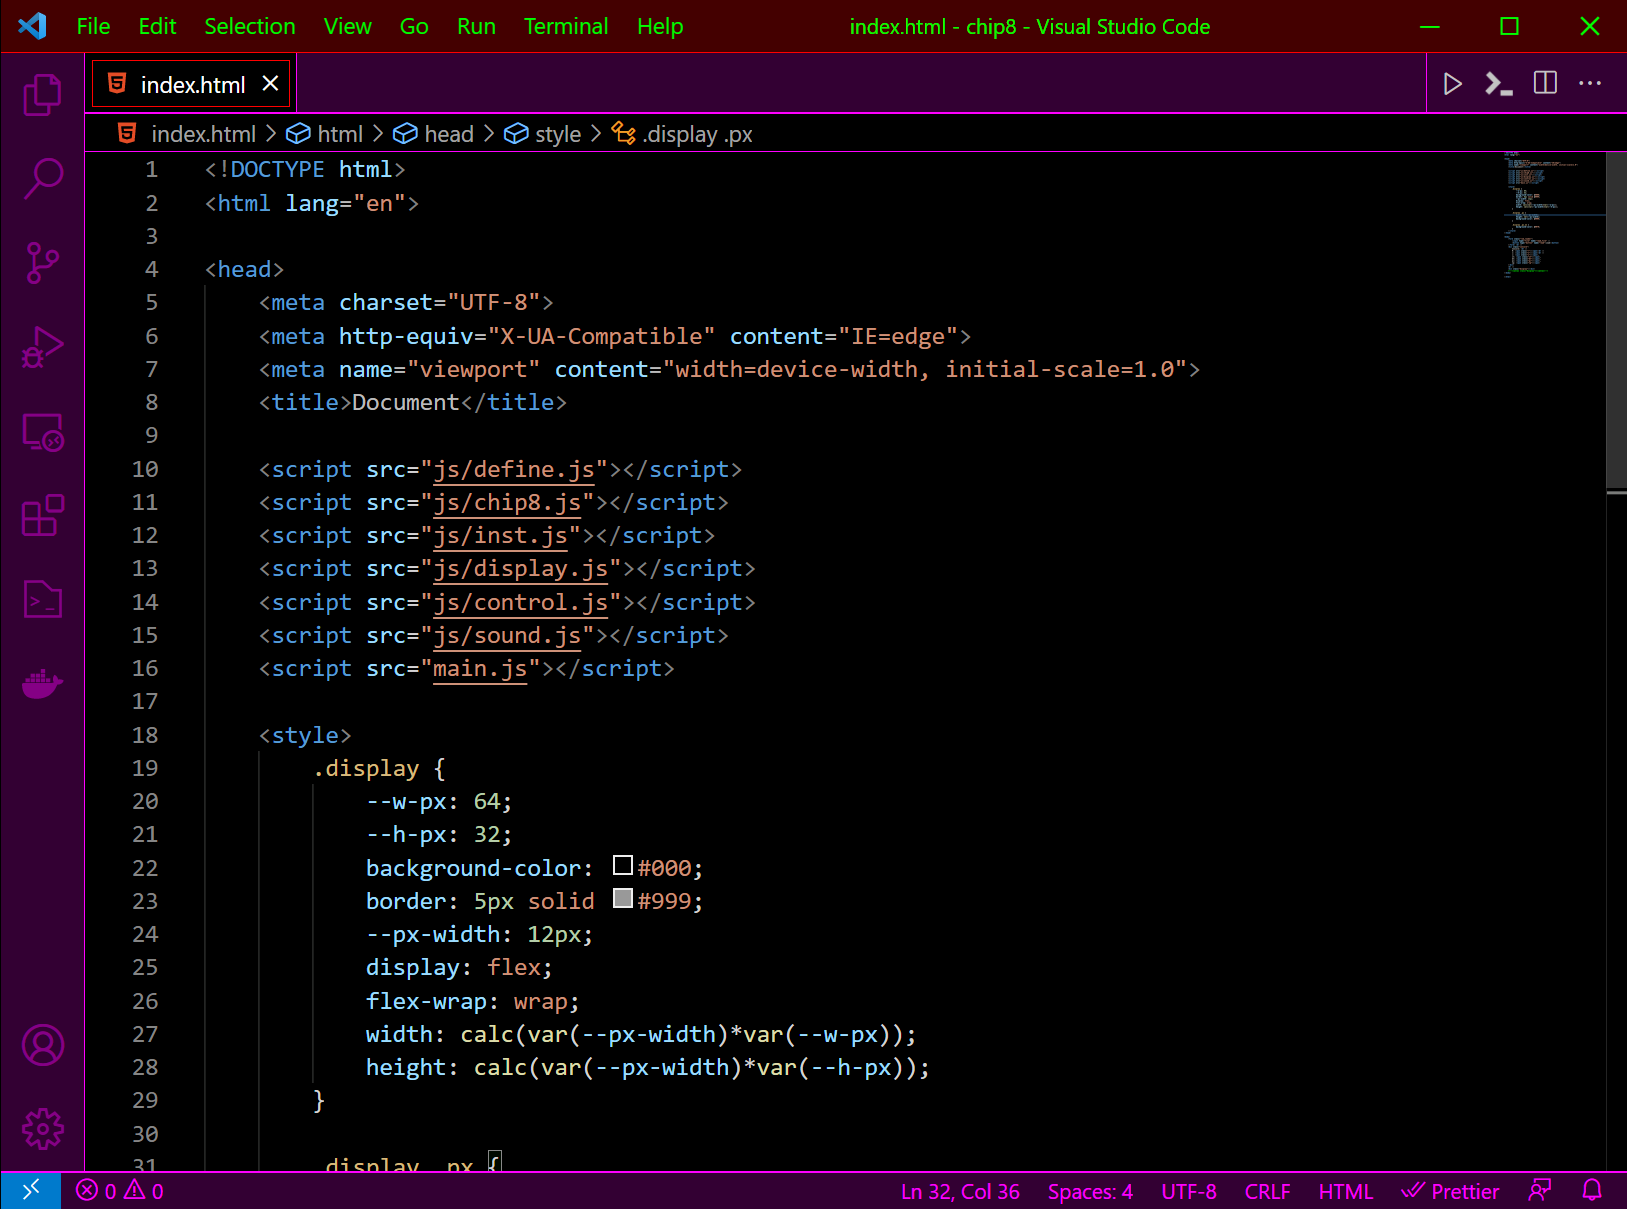
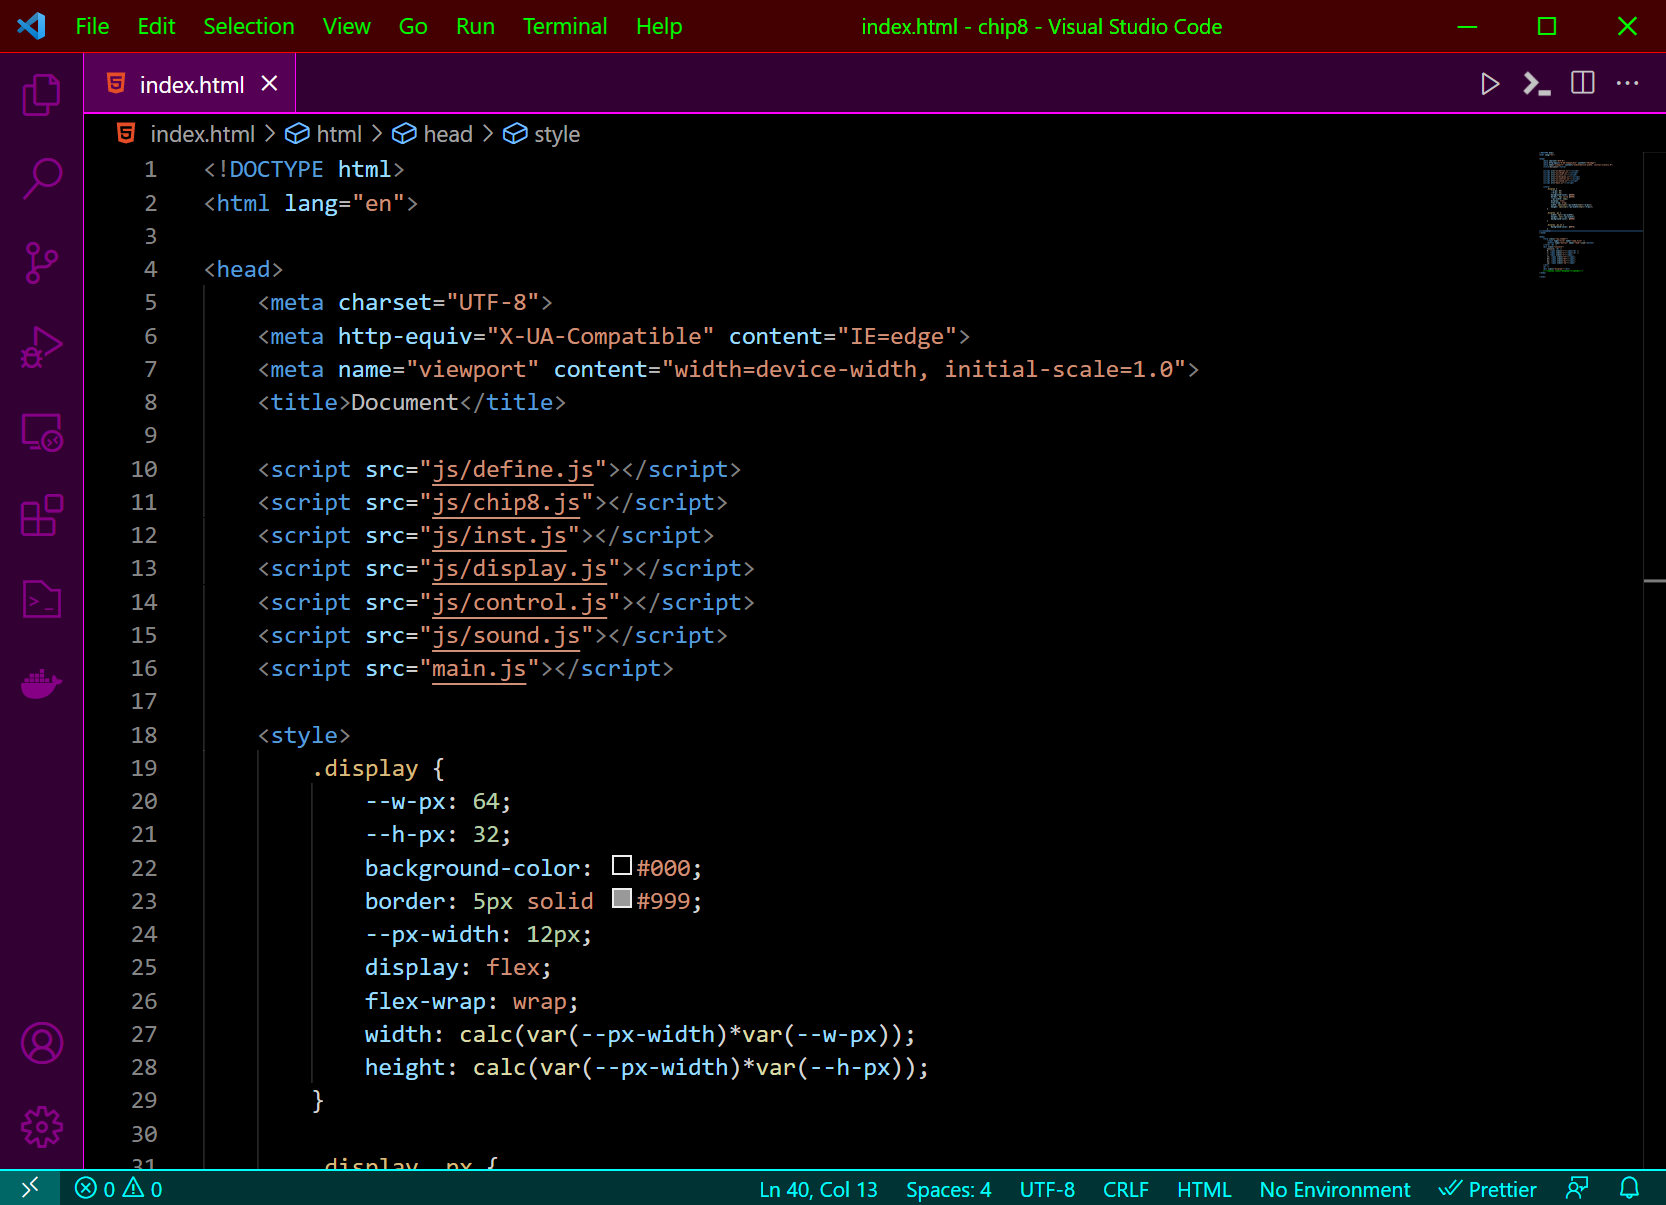
update - v0.1.3

diff --git a/README.md b/README.md
@@ -10,9 +10,22 @@ I usually use a different theme to remind me in which stage of work.
 
 Let me know if you like it. 👍
 
-## Purple
+
+## Blue (Updated)
+
+![Image](images/blue.png "TX-Neon Blue")
+
+## Blue/Yellow (New)
+
+![Image](images/blue-yellow.png "TX-Neon Blue/Yellow")
+
+## Purple (Updated)
 
 ![Image](images/purple.png "TX-Neon Purple")
+
+## Red (Updated)
+
+![Image](images/red.png "TX-Neon Red")
 
 ## Green
 
@@ -25,11 +38,3 @@ Let me know if you like it. 👍
 ## Yellow
 
 ![Image](images/yellow.png "TX-Neon Yellow")
-
-## Red
-
-![Image](images/red.png "TX-Neon Red")
-
-## Blue
-
-![Image](images/blue.png "TX-Neon Blue")

diff --git a/CHANGELOG.md b/CHANGELOG.md
@@ -1,9 +1,15 @@
 # TX-Neon theme Changelog
 
+## v0.1.3
+
+Updated: Blue, Purple, Color (more easy to see the button)
+
+Added New Color: Blue/Yellow
+
 ## v0.1.2
 
 Updated images in the README
 
 ## v0.1.1
 
-Cyan Color Added2
+Added Color: Cyan
